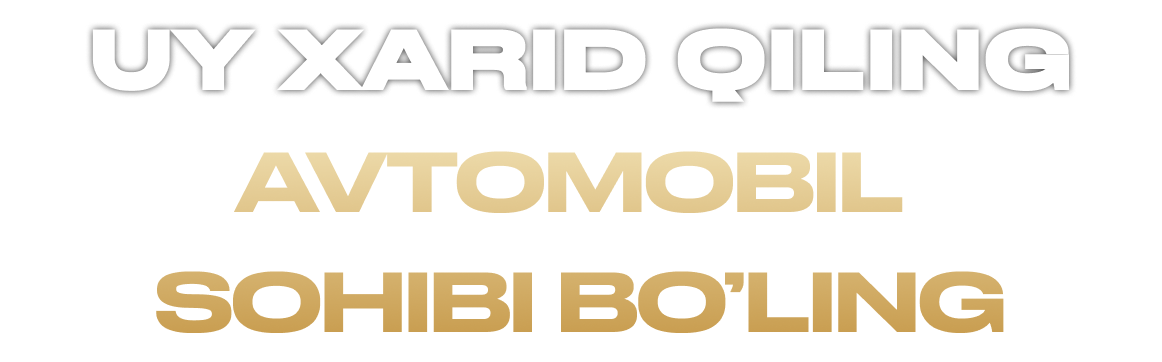
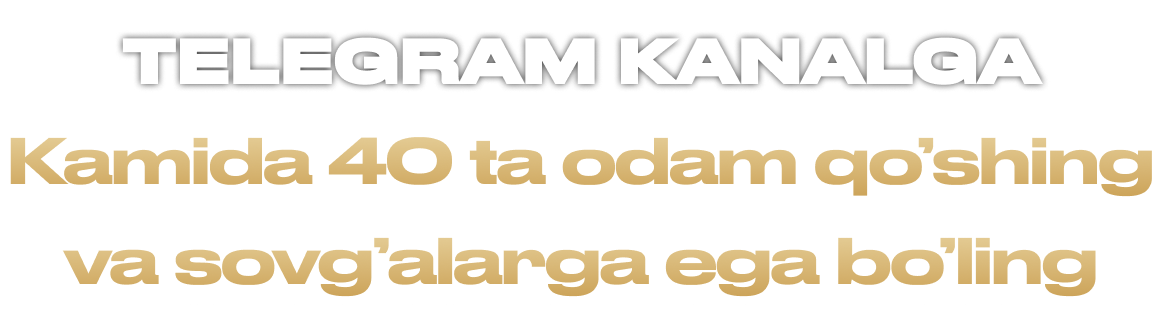
feat: web3

Changed region(s): [[0.062, 0.0625, 0.9294, 0.3125], [0.0, 0.4062, 0.9914, 0.625], [0.031, 0.7188, 0.9604, 0.9375]]

diff --git a/web4/src/App.jsx b/web4/src/App.jsx
@@ -44,7 +44,7 @@ export default function App() {
   }, []);
 
   return (
-    <div className='min-h-screen bg-linear-to-b from-[#010620ff] to-[#001165ff] pb-10' color="#4e588d5d">
+    <div className='min-h-screen bg-linear-to-b from-[#010620ff] to-[#001165ff] ' color="#4e588d5d">
       <div className="flex flex-col gap-4 md:max-w-md mx-auto">
         {/* Header */}
         <div className="flex items-center justify-between p-6 mb-[-18px]">
@@ -61,12 +61,12 @@ export default function App() {
 
         {/* Hero */}
         <div className="flex flex-col pb-26 relative">
-          <img src="/heroText.png" />
+          <img src="/heroText.png" className="px-2"/>
 
           <img src="/hero.png" className="mt-6 p-4" />
 
-          <a href="https://t.me/barakapremiumbot" className="absolute text-white text-2xl w-[84%] font-bold bottom-0 left-[50%] translate-x-[-50%] flex items-center justify-center gap-4 bg-[var(--primary)] rounded-full py-5">
-            <img src="/telegram.png" className="w-7" />
+          <a href="https://t.me/barakapremiumbot" className="absolute text-blue-900 text-2xl w-[84%] font-bold bottom-0 left-[50%] translate-x-[-50%] flex items-center justify-center gap-4 bg-white rounded-2xl py-5">
+            <img src="/bot.png" className="w-7" />
             BOTGA O'TING
           </a>
         </div>
@@ -79,7 +79,7 @@ export default function App() {
         </div>
 
         {/* Section counter */}
-        <div className="flex flex-col gap-4 items-center bg-[#4e588d5d] rounded-4xl p-4 m-3 mt-0">
+        <div className="flex flex-col gap-4 items-center bg-[#4e588d5d] rounded-4xl p-4 mx-4">
           <h2 className="text-[var(--primary)] font-bold text-xl">AKSIYAGACHA QOLDI</h2>
 
           <div className="flex items-center gap-1 w-full text-2xl font-semibold">
@@ -104,6 +104,8 @@ export default function App() {
             </div>
           </div>
         </div>
+
+        <img src="/steps.png" className="w-screen" />
       </div>
     </div>
   );

diff --git a/web/index.html b/web/index.html
@@ -10,7 +10,7 @@
   <link
     href="https://fonts.googleapis.com/css2?family=Plus+Jakarta+Sans:ital,wght@0,200..800;1,200..800&family=Roboto+Condensed:ital,wght@0,100..900;1,100..900&display=swap"
     rel="stylesheet">
-  <title>Kuhism</title>
+  <title>Baraka Premium</title>
   <meta name="facebook-domain-verification" content="zfutrrawl0yc2h3jg92pxofebasz6j" />
   <!-- Meta Pixel Code -->
   <script>

diff --git a/web2/index.html b/web2/index.html
@@ -10,7 +10,7 @@
   <link
     href="https://fonts.googleapis.com/css2?family=Plus+Jakarta+Sans:ital,wght@0,200..800;1,200..800&family=Roboto+Condensed:ital,wght@0,100..900;1,100..900&display=swap"
     rel="stylesheet">
-  <title>Kuhism</title>
+  <title>Baraka Premium</title>
   <meta name="facebook-domain-verification" content="d20vx1u716y4nedq9yeya769zz7xsn" />
   <!-- Meta Pixel Code -->
   <script>

diff --git a/web4/index.html b/web4/index.html
@@ -10,7 +10,7 @@
   <link
     href="https://fonts.googleapis.com/css2?family=Plus+Jakarta+Sans:ital,wght@0,200..800;1,200..800&family=Roboto+Condensed:ital,wght@0,100..900;1,100..900&display=swap"
     rel="stylesheet">
-  <title>Kuhism</title>
+  <title>Baraka Premium</title>
   <meta name="facebook-domain-verification" content="zfutrrawl0yc2h3jg92pxofebasz6j" />
   <!-- Meta Pixel Code -->
   <script>

diff --git a/web3/index.html b/web3/index.html
@@ -10,7 +10,7 @@
   <link
     href="https://fonts.googleapis.com/css2?family=Plus+Jakarta+Sans:ital,wght@0,200..800;1,200..800&family=Roboto+Condensed:ital,wght@0,100..900;1,100..900&display=swap"
     rel="stylesheet">
-  <title>Kuhism</title>
+  <title>Baraka Premium</title>
 </head>
 
 <body>
